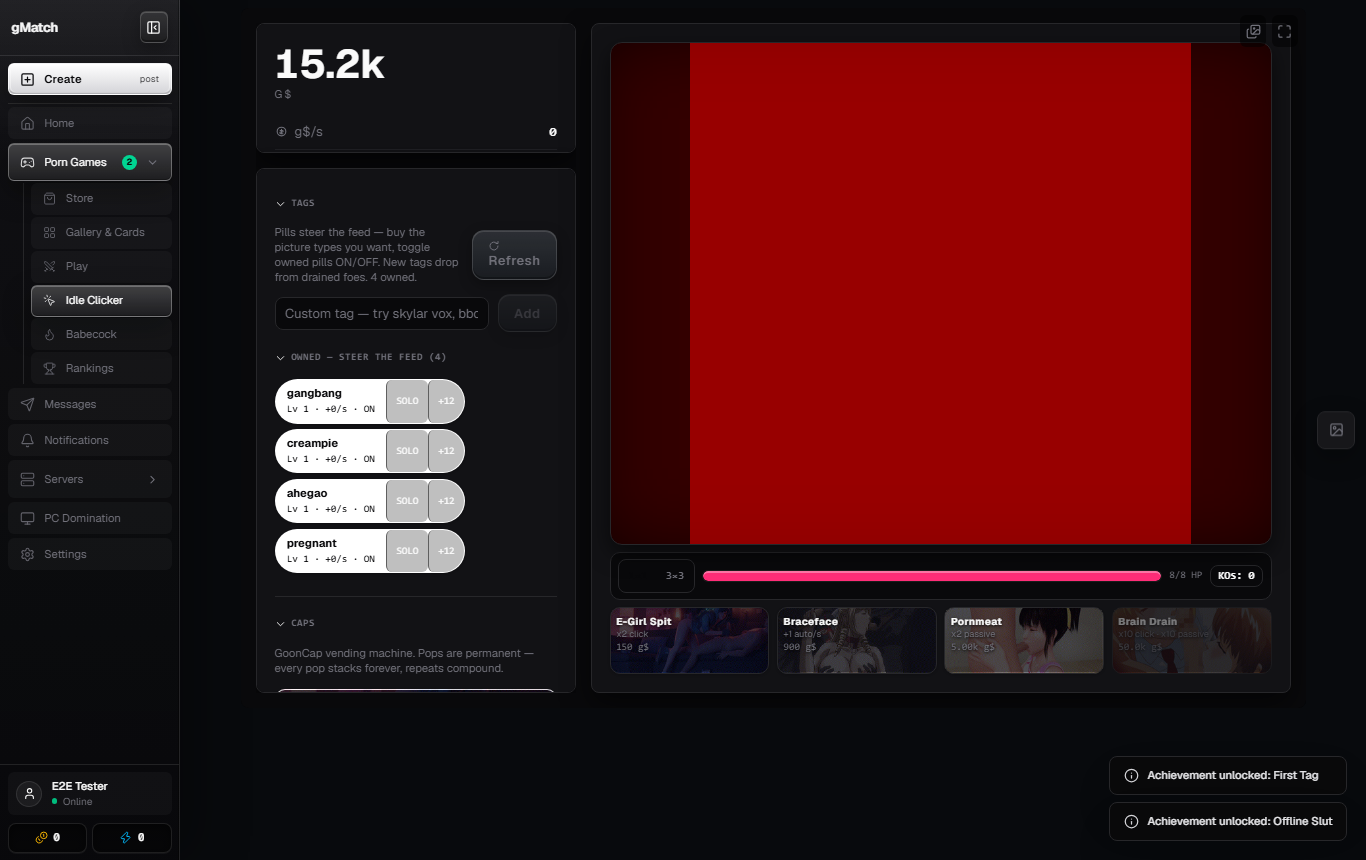
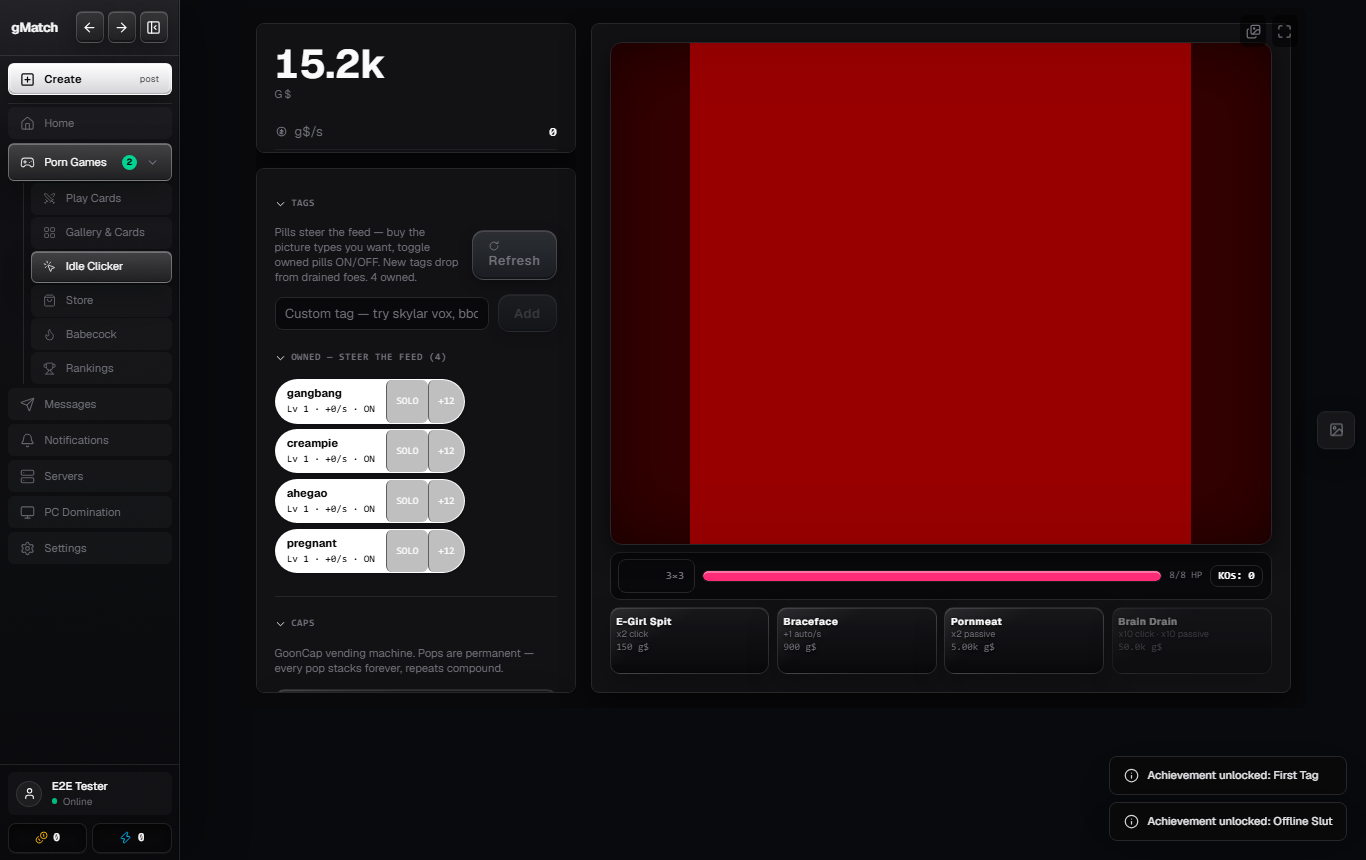
chore(site): publish 1.1.1 exe (sha 209d5ff1…), fresh screenshots with back/forward chrome, drop stale 1.1.0 from site

diff --git a/site/index.html b/site/index.html
@@ -81,12 +81,12 @@
 
 <section id="download">
 <h2>Download (Windows x64, single file)</h2>
-<p>Version <strong id="version">1.1.0</strong> · file <code>gMatch-1.1.0-portable.exe</code> · 114,146,607 bytes (108.9 MiB) · built <span id="build-date">2026-09-09T11:58:34.956Z</span> (UTC).</p>
-<p><a href="releases/gMatch-1.1.0-portable.exe" download>Download gMatch-1.1.0-portable.exe</a></p>
+<p>Version <strong id="version">1.1.1</strong> · file <code>gMatch-1.1.1-portable.exe</code> · 114,146,607 bytes (108.9 MiB) · built <span id="build-date">2026-09-10T06:03:41.760Z</span> (UTC).</p>
+<p><a href="releases/gMatch-1.1.1-portable.exe" download>Download gMatch-1.1.1-portable.exe</a></p>
 <p>Expected <strong>SHA-256</strong> — copy the value below and check it against the next section before running anything:</p>
-<pre id="sha256">f7608ffa2ece37f5d23fc772699a3a989e3c915d95600a4fcc904b6fba11a4e7</pre>
+<pre id="sha256">209d5ff173309f607871c10c2d71df1364d3597d812674ca452a559a26862ab9</pre>
 <p>Expected <strong>SHA-512</strong> (extra paranoia is a virtue when the file is 109 MB):</p>
-<pre id="sha512">5bfebc0809d50f423c025c04dcf4c85901b881651a6cce8fe95047c34d8e603158a7e5991fef989a7ec44b54f959b022a9e2eaf5660982e2d964a2f63fbd71d2</pre>
+<pre id="sha512">dddeb7aca96548b09a6f5286c195acd226b4a0769150f31c13bedff7380d6cbd8c5ea797e3cbc865b1f296529bcdbd776d312f5202187c5d14e29d31d1bc0c1c</pre>
 <p><em>(Both hashes — plus the build date and byte count above — are derived mechanically from the shipped file at publish time, never hand-typed. The same data lives at <code>release.json</code> on this server.)</em></p>
 <h3>Code signing: what we do and don't have</h3>
 <p>This binary is <strong>not Authenticode-signed</strong>. A commercial code-signing certificate costs hundreds of dollars a year; we fund this project with donations, not data sales, so instead we publish the cryptographic integrity you can verify yourself: SHA-256 and SHA-512 digests derived from the exact bytes served on this page. There is no macOS or Linux build yet.</p>
@@ -102,7 +102,7 @@
 <section id="verify">
 <h2>Verify the hash on Windows (20 seconds, nothing to install)</h2>
 <p>Open the Start menu, type <code>PowerShell</code>, and run (adjust the path if you saved elsewhere):</p>
-<pre>Get-FileHash "$env:USERPROFILE\Downloads\gMatch-1.1.0-portable.exe" -Algorithm SHA256</pre>
+<pre>Get-FileHash "$env:USERPROFILE\Downloads\gMatch-1.1.1-portable.exe" -Algorithm SHA256</pre>
 <p>Compare the <code>Hash</code> value with the one published above. If it differs by even ONE character, do NOT run the file: delete it and report at <a href="https://github.com/9matesu/goongrid/issues">github.com/9matesu/goongrid/issues</a>.</p>
 <p>Same idea, any algorithm you prefer: <code>Get-FileHash ... -Algorithm SHA512</code> must match the SHA-512 block above.</p>
 </section>

diff --git a/site/en.html b/site/en.html
@@ -81,12 +81,12 @@
 
 <section id="download">
 <h2>Download (Windows x64, arquivo único)</h2>
-<p>Versão <strong id="version">1.1.0</strong> · arquivo <code>gMatch-1.1.0-portable.exe</code> · 114.146.607 bytes (108,9 MiB) · compilado em <span id="build-date">2026-09-09T11:58:34.956Z</span> (UTC).</p>
-<p><a href="releases/gMatch-1.1.0-portable.exe" download>Baixar gMatch-1.1.0-portable.exe</a></p>
+<p>Versão <strong id="version">1.1.1</strong> · arquivo <code>gMatch-1.1.1-portable.exe</code> · 114.146.607 bytes (108,9 MiB) · compilado em <span id="build-date">2026-09-10T06:03:41.760Z</span> (UTC).</p>
+<p><a href="releases/gMatch-1.1.1-portable.exe" download>Baixar gMatch-1.1.1-portable.exe</a></p>
 <p><strong>SHA-256</strong> esperado — copie o valor abaixo e confira na próxima seção antes de rodar:</p>
-<pre id="sha256">f7608ffa2ece37f5d23fc772699a3a989e3c915d95600a4fcc904b6fba11a4e7</pre>
+<pre id="sha256">209d5ff173309f607871c10c2d71df1364d3597d812674ca452a559a26862ab9</pre>
 <p><strong>SHA-512</strong> esperado (paranoia extra é virtude com um arquivo de 109 MB):</p>
-<pre id="sha512">5bfebc0809d50f423c025c04dcf4c85901b881651a6cce8fe95047c34d8e603158a7e5991fef989a7ec44b54f959b022a9e2eaf5660982e2d964a2f63fbd71d2</pre>
+<pre id="sha512">dddeb7aca96548b09a6f5286c195acd226b4a0769150f31c13bedff7380d6cbd8c5ea797e3cbc865b1f296529bcdbd776d312f5202187c5d14e29d31d1bc0c1c</pre>
 <p><em>(Os dois hashes, a data de compilação e o tamanho saem MECANICAMENTE do arquivo publicado, nunca digitados à mão. Os mesmos dados estão em <code>release.json</code> neste servidor.)</em></p>
 <h3>Assinatura de código: o que temos e o que não temos</h3>
 <p>Este binário NÃO tem assinatura Authenticode comercial — custa centenas de dólares por ano e pagamos o projeto com doação, não com venda de dados. Em vez disso publicamos a integridade criptográfica que você verifica sozinho: SHA-256 e SHA-512 derivados dos bytes exatos servidos nesta página. Ainda não há build para macOS/Linux.</p>
@@ -102,7 +102,7 @@
 <section id="verificar">
 <h2>Verificar o hash no Windows (20 segundos, sem instalar nada)</h2>
 <p>Abra o menu Iniciar, digite <code>PowerShell</code> e rode (ajuste o caminho se salvou em outro lugar):</p>
-<pre>Get-FileHash "$env:USERPROFILE\Downloads\gMatch-1.1.0-portable.exe" -Algorithm SHA256</pre>
+<pre>Get-FileHash "$env:USERPROFILE\Downloads\gMatch-1.1.1-portable.exe" -Algorithm SHA256</pre>
 <p>Compare o valor <code>Hash</code> com o publicado acima. Se diferir em UM caractere, NÃO execute: apague e reporte em <a href="https://github.com/9matesu/goongrid/issues">github.com/9matesu/goongrid/issues</a>.</p>
 <p>Mesma ideia, qualquer algoritmo: <code>Get-FileHash ... -Algorithm SHA512</code> deve bater com o bloco SHA-512 acima.</p>
 </section>
